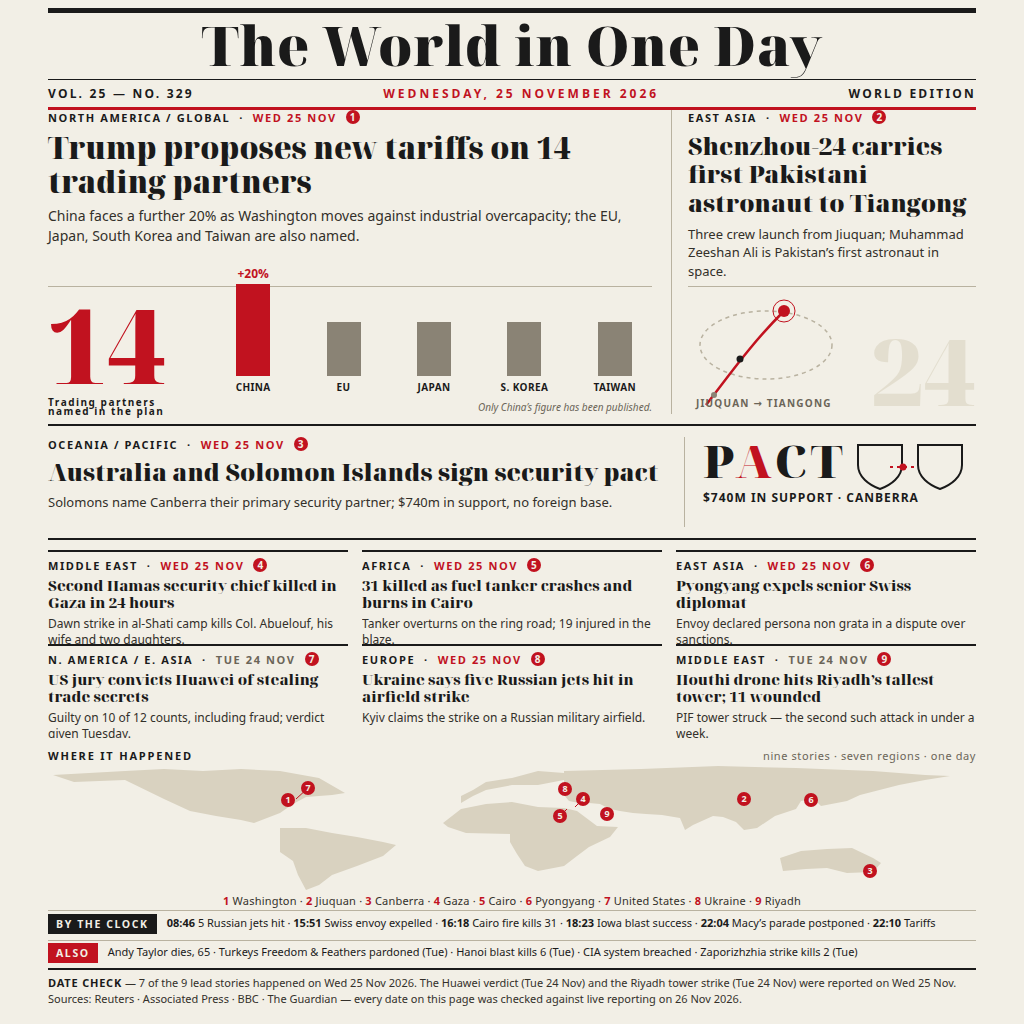
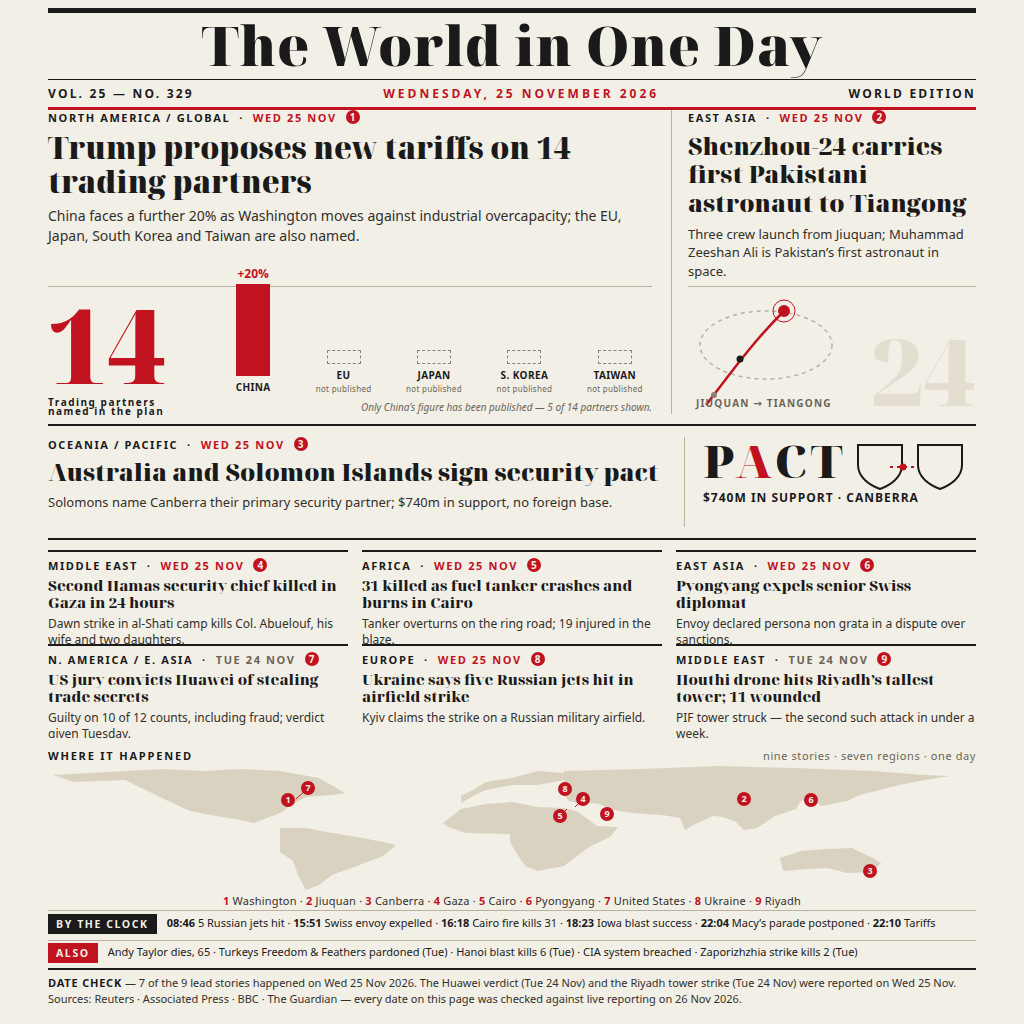
Tariff chart: unpublished partners shown as no-data placeholders

Changed region(s): [[0.3125, 0.3125, 0.625, 0.4062]]

diff --git a/poster.html b/poster.html
@@ -70,10 +70,11 @@
   .tariff .bar { flex: 1; text-align: center; }
   .tariff .bar i { display: block; margin: 0 auto 4px; width: 34px; background: #8A8375; }
   .tariff .bar.china i { background: #C1121F; height: 92px; }
-  .tariff .bar.other i { height: 54px; }
+  .tariff .bar .nodata { display: block; margin: 0 auto 4px; width: 34px; height: 14px; border: 1.5px dashed #8A8375; background: transparent; }
+  .tariff .bar .unpub { display: block; font-size: 8px; letter-spacing: 0.3px; color: #6B6558; margin-top: 1px; }
   .tariff .bar b { font-size: 10px; letter-spacing: 0.4px; display: block; }
   .tariff .bar .rate { font-size: 12px; font-weight: 700; color: #C1121F; display: block; margin-bottom: 2px; }
-  .tariff .note { position: absolute; right: 0; bottom: 0; font-size: 10px; color: #6B6558; font-style: italic; }
+  .tariff .note { position: absolute; right: 0; bottom: 0; font-size: 10px; color: #6B6558; font-style: italic; white-space: nowrap; }
 
   /* Shenzhou graphic: trajectory + orbit ring + ghost 24 */
   .shenzhou { position: absolute; left: 0; bottom: 0; width: 288px; height: 128px; border-top: 1px solid #B9B2A0; }
@@ -168,11 +169,11 @@
         <div class="bignum">14<small>Trading partners<br>named in the plan</small></div>
         <div class="bars">
           <div class="bar china"><span class="rate">+20%</span><i></i><b>CHINA</b></div>
-          <div class="bar other"><i></i><b>EU</b></div>
-          <div class="bar other"><i></i><b>JAPAN</b></div>
-          <div class="bar other"><i></i><b>S. KOREA</b></div>
-          <div class="bar other"><i></i><b>TAIWAN</b></div>
-          <div class="note">Only China&rsquo;s figure has been published.</div>
+          <div class="bar other"><span class="nodata"></span><b>EU</b><span class="unpub">not published</span></div>
+          <div class="bar other"><span class="nodata"></span><b>JAPAN</b><span class="unpub">not published</span></div>
+          <div class="bar other"><span class="nodata"></span><b>S. KOREA</b><span class="unpub">not published</span></div>
+          <div class="bar other"><span class="nodata"></span><b>TAIWAN</b><span class="unpub">not published</span></div>
+          <div class="note">Only China&rsquo;s figure has been published &mdash; 5 of 14 partners shown.</div>
         </div>
       </div>
     </article>
